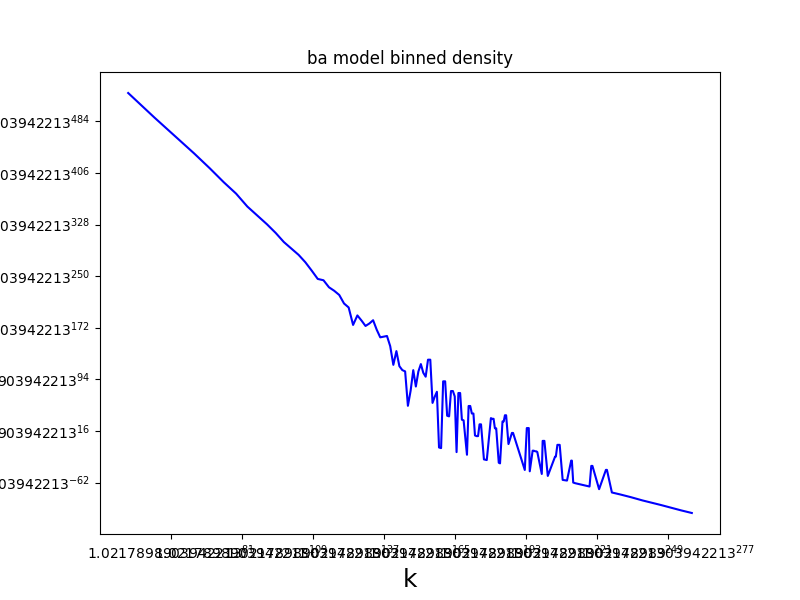
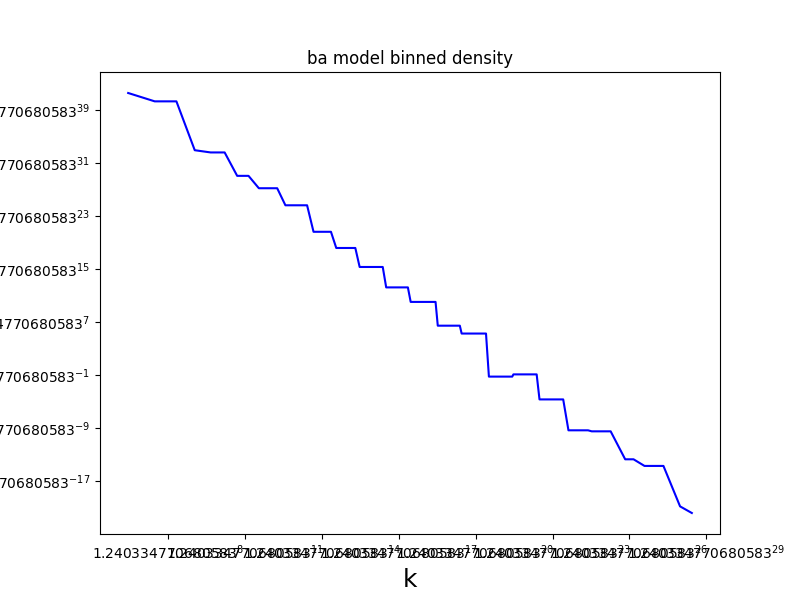
3 19

diff --git a/Networks3/ba.py b/Networks3/ba.py
@@ -173,7 +173,7 @@ def run_ba_model(size: int, kernel_size: int):
 
     diff: int = max_k - min_k
 
-    n: int = 222
+    n: int = 22
 
     ratio: float = max_k / min_k
 
